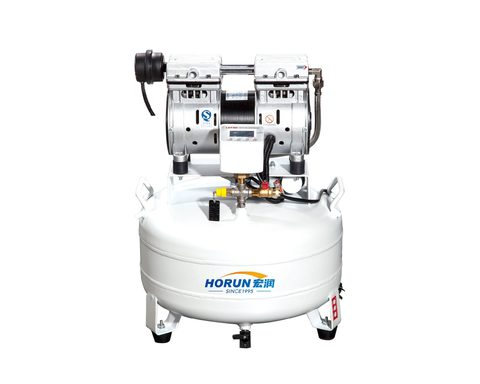
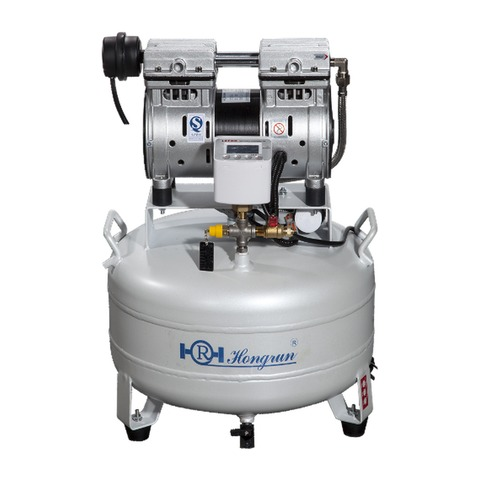
feat(products-hy): replace HY-100 image with authentic international model assets

diff --git a/products-cleanair.html b/products-cleanair.html
@@ -229,6 +229,10 @@ tailwind.config = {
     <p class="text-slate-500 mb-10 text-sm">Twin-element high-capacity clean air systems with dual drying towers. Built for busy clinics, dental hospitals and central distribution networks.</p>
 
     <!-- HVTG-900 -->
+    <!-- ⚠ QC-PENDING 2026-09-02: HVTG-900 当前图片（蓝色箱体+橘色装饰线）外观风格与同组 HVTG-1200/1600（灰色工业柜+外罐）
+         明显不一致，且机身无 HVTG-900 型号标贴。需产品方确认：(1)此图是否为 HVTG-900 正确实拍；
+         (2)若否，请补发正确图片文件替换 HVTG-900.jpg。型号/参数/图路径暂不改动。
+         参见: QC确认清单-宏润官网-20260902.md  第2项。 -->
     <div class="grid lg:grid-cols-2 gap-6 items-center mb-8">
       <div class="bg-white rounded-xl border border-slate-200 shadow-xl overflow-hidden group flex items-center justify-center p-6 h-72">
         <img data-zoom data-hd="assets/images/products/intl/HVTG-900.jpg" src="assets/images/products/thumbs/HVTG-900.jpg" data-hd="assets/images/products/intl/HVTG-900.jpg" loading="lazy" alt="HVTG-900 twin clean air system for 6-9 chairs" class="max-h-56 w-auto object-contain mix-blend-multiply group-hover:scale-115 transition-transform duration-500"/>
